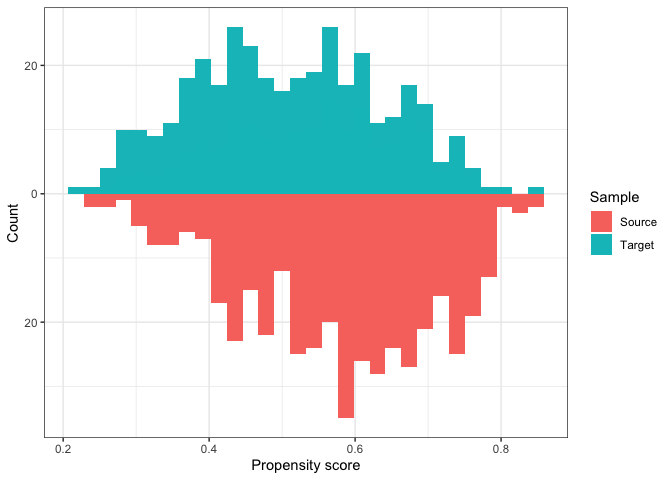
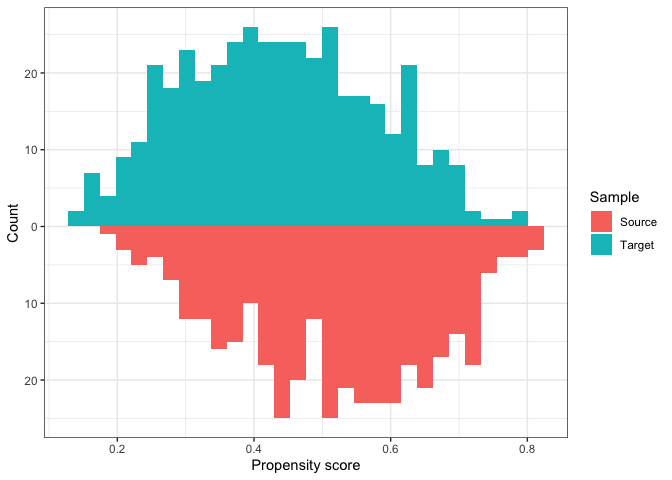
Update code

diff --git a/readme.md b/readme.md
@@ -1,11 +1,12 @@
 
 # EBalGen: Entropy balancing for covariate shift causal generalization
 
+## Overview
+
 <!-- badges: start -->
+
 [![R-CMD-check](https://github.com/yc702/EBalGen/actions/workflows/R-CMD-check.yaml/badge.svg)](https://github.com/yc702/EBalGen/actions/workflows/R-CMD-check.yaml)
 <!-- badges: end -->
-
-## Overview
 
 ### Introduction
 
@@ -53,26 +54,28 @@ library(EBalGen)
 
 ### Data Set up
 
-We set the total sample size $n = n_s +n_t= 800$ which is split into
-source $n_s = 401$ and target $n_t = 399$ samples. We generate 5
-covariates $X = (X_1, \ldots, X_5)$ from a uniform distribution
-$U(-2, 2)$. The source/target participation probability $\rho (x)$
-follows $\text{logit} \{ \rho (x) \} = 0.4x_1+ 0.3x_2-0.2x_4$. That is,
-there is shift in the distribution of $(X_1, X_2, X_4)$.
+- We set the total sample size $n = n_s +n_t= 800$ which is split into
+  source $n_s = 401$ and target $n_t = 399$ samples. We generate 5
+  covariates $X = (X_1, \ldots, X_5)$ from a uniform distribution
+  $U(-2, 2)$.
 
-Propensity score $(\pi(x))$ model: we assume the treatment assignment is
-related to $H$ linearly with
-$\text{logit}\{\pi(x)\} = 0.7x_2 + 0.5 x_3$. In this case, all the
-confounders are included in $H$, and it is enough that we only balance
-on $H$ to account for confounding.
+- The source/target participation probability $\rho (x)$: it follows
+  $\text{logit} \{ \rho (x) \} = 0.4x_1+ 0.3x_2-0.2x_4$. That is, there
+  is shift in the distribution of $(X_1, X_2, X_4)$.
 
-Outcome model: we assume
-$Y_i = m(X_i) + (A_i-0.5) \tau(X_i) + \epsilon_i$ with
-$\epsilon_i \overset{\text{i.i.d}}{\sim} N(0,1)$.
+- Propensity score $(\pi(x))$ model: we assume the treatment assignment
+  is related to $H$ linearly with
+  $\text{logit}\{\pi(x)\} = 0.7x_2 + 0.5 x_3$. In this case, all the
+  confounders are included in $H$, and it is enough that we only balance
+  on $H$ to account for confounding.
 
-CATE function: we assume \$(x) = x_1 - 0.6x_2 - 0.4 x_3 \$. For the main
-effect $m(x)$, it has the form of
-$m(x) = 0.5x_1 + 0.3x_2 +0.3x_3 - 0.4 x_4 - 0.7 x_5$.
+- Outcome model: we assume
+  $Y_i = m(X_i) + (A_i-0.5) \tau(X_i) + \epsilon_i$ with
+  $\epsilon_i \overset{\text{i.i.d}}{\sim} N(0,1)$.
+
+- CATE function: we assume \$(x) = x_1 - 0.6x_2 - 0.4 x_3 \$. For the
+  main effect $m(x)$, it has the form of
+  $m(x) = 0.5x_1 + 0.3x_2 +0.3x_3 - 0.4 x_4 - 0.7 x_5$.
 
 In this setting, the Average treatment effect for target (ATET) is
 -0.138
@@ -110,13 +113,13 @@ set $H(x) = (1, x_1, x_2, x_3)$ and $G(x) = (x_4, x_5)$.
 - `trts` A vector of 0, 1 or TRUE/FALSE of treatment assignment for the
   source sample.
 
-- `H_vars` A vector of numbers specifying which covariate in the source
+- `H_vars` A vector of numbers indexing which covariate in the source
   sample need to be balanced between source and target samples. Here we
   balance on 1,2,3 covariates.
 
 - `target_moments`A vector of first moments of the target sample
   covariates that needs to be balanced between source and target. Here
-  the values are -0.239, -0.187, -0.058.
+  the values are -0.277, -0.139, -0.119.
 
 - `delta` A vector specifying the approximate balancing tolerance
   margin. Here the values are (0, 0, 0, 0, 0, 0, 0, 0). For the delta’s
@@ -132,7 +135,7 @@ library(EBalGen)
 wts_gen <- ebal_wts(xs, trts,H_vars, target_moments,H_add_intercept = TRUE,delta )$w
 summary(wts_gen)
 #>    Min. 1st Qu.  Median    Mean 3rd Qu.    Max. 
-#>  0.2741  0.9978  1.5188  2.0000  2.6777 11.5155
+#>  0.2415  1.0163  1.5952  2.0000  2.5774 14.0762
 ```
 
 Here is the generalized target ATE.
@@ -141,7 +144,7 @@ Here is the generalized target ATE.
 
 ebal_ATE(xs,ys,trts,H_vars, target_moments, H_add_intercept=TRUE,delta)$ATE
 #>      value 
-#> -0.1051612
+#> 0.02294481
 ```
 
 ### Compute exact balancing CI
@@ -162,12 +165,12 @@ ATE_CI = RPM_CI(xs, ys,trts, H_vars=H_vars,target_mean=target_moments,
 ## Lower bound of 95% CI
 ATE_CI$lb_ATE
 #>      2.5% 
-#> -2.060062
+#> -2.130664
 
 ## Upper bound of 95% CI
 ATE_CI$ub_ATE
 #>    97.5% 
-#> 1.917952
+#> 2.310287
 ```
 
 ------------------------------------------------------------------------
@@ -218,7 +221,7 @@ wts_gen <- ebal_wts(xs, trts,H_vars, target_moments,H_add_intercept = TRUE,
                     delta=numeric(8)+0.1 )$w
 summary(wts_gen)
 #>     Min.  1st Qu.   Median     Mean  3rd Qu.     Max. 
-#>  0.00104  0.17267  0.47180  2.00001  1.42941 76.36493
+#>  0.04555  0.33305  0.75514  2.00001  1.85307 93.90129
 ```
 
 Here is the generalized target ATE.
@@ -227,8 +230,8 @@ Here is the generalized target ATE.
 
 ebal_ATE(xs,ys,trts,H_vars, target_moments, H_add_intercept=TRUE,
          delta=numeric(8)+0.1)$ATE
-#>      value 
-#> -0.6982687
+#>     value 
+#> -1.046427
 ```
 
 ### Compute approximate balancing confidence interval
@@ -244,16 +247,16 @@ ATE_CI = RPM_AB(xs, ys,trts, H_vars=H_vars,target_mean=target_moments,target_sd=
 ## Lower bound of 95% CI
 ATE_CI$lb_ATE
 #>      2.5% 
-#> -2.456376
+#> -2.807896
 
 ## Upper bound of 95% CI
 ATE_CI$ub_ATE
 #>   97.5% 
-#> 3.74397
+#> 4.54158
 
 ## Number of simulations that uses exact balancing over 300
 ATE_CI$use_exact
-#> [1] 64
+#> [1] 67
 ```
 
 ## Reference
